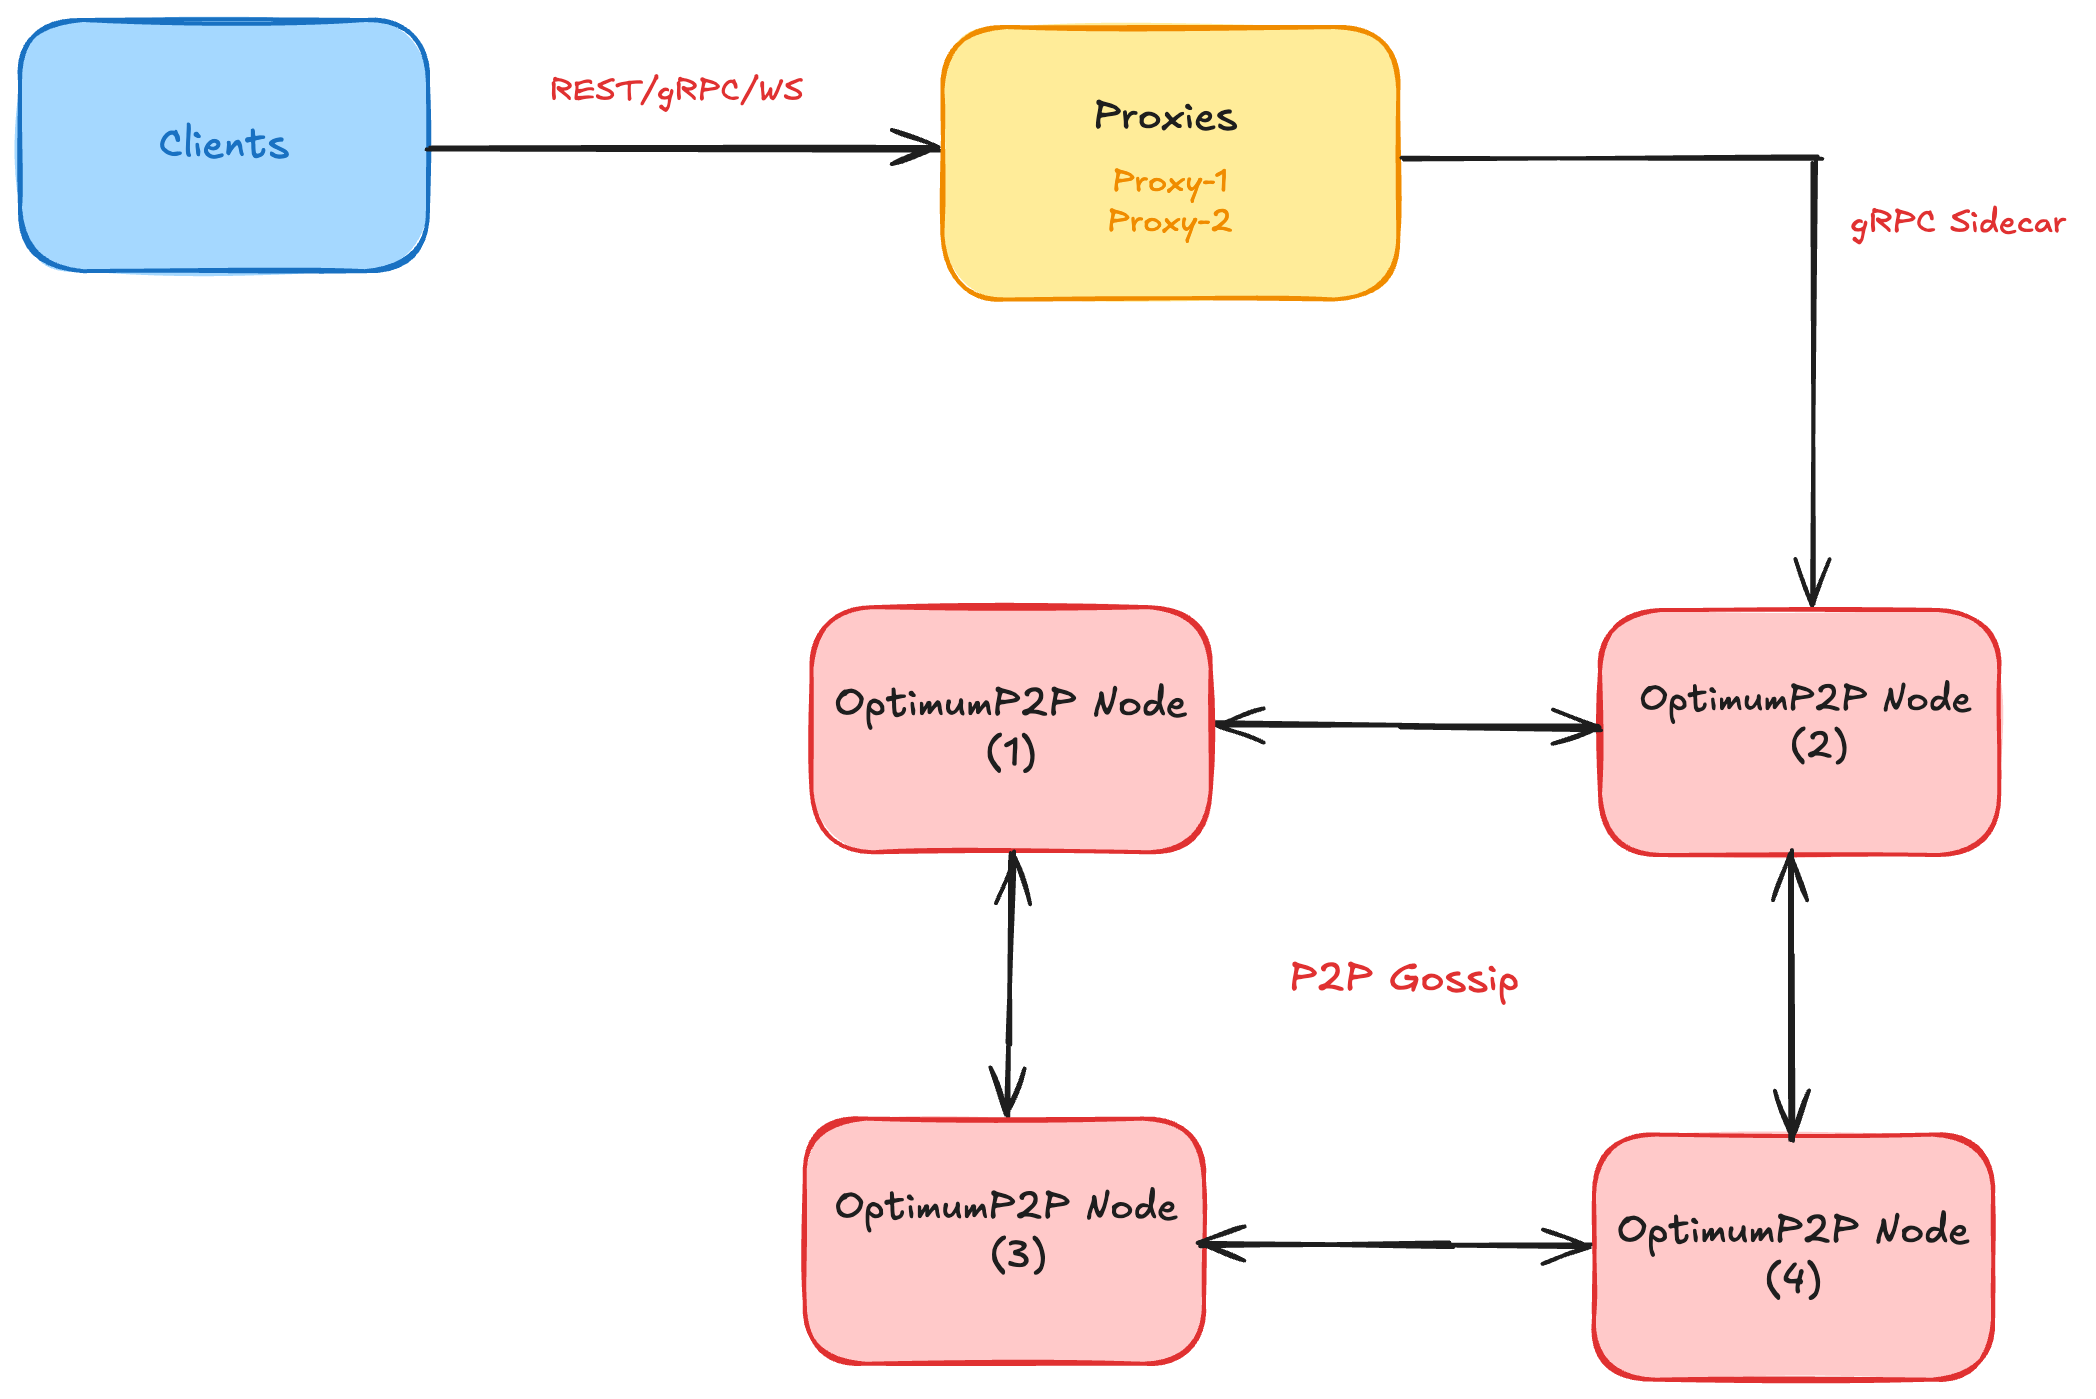
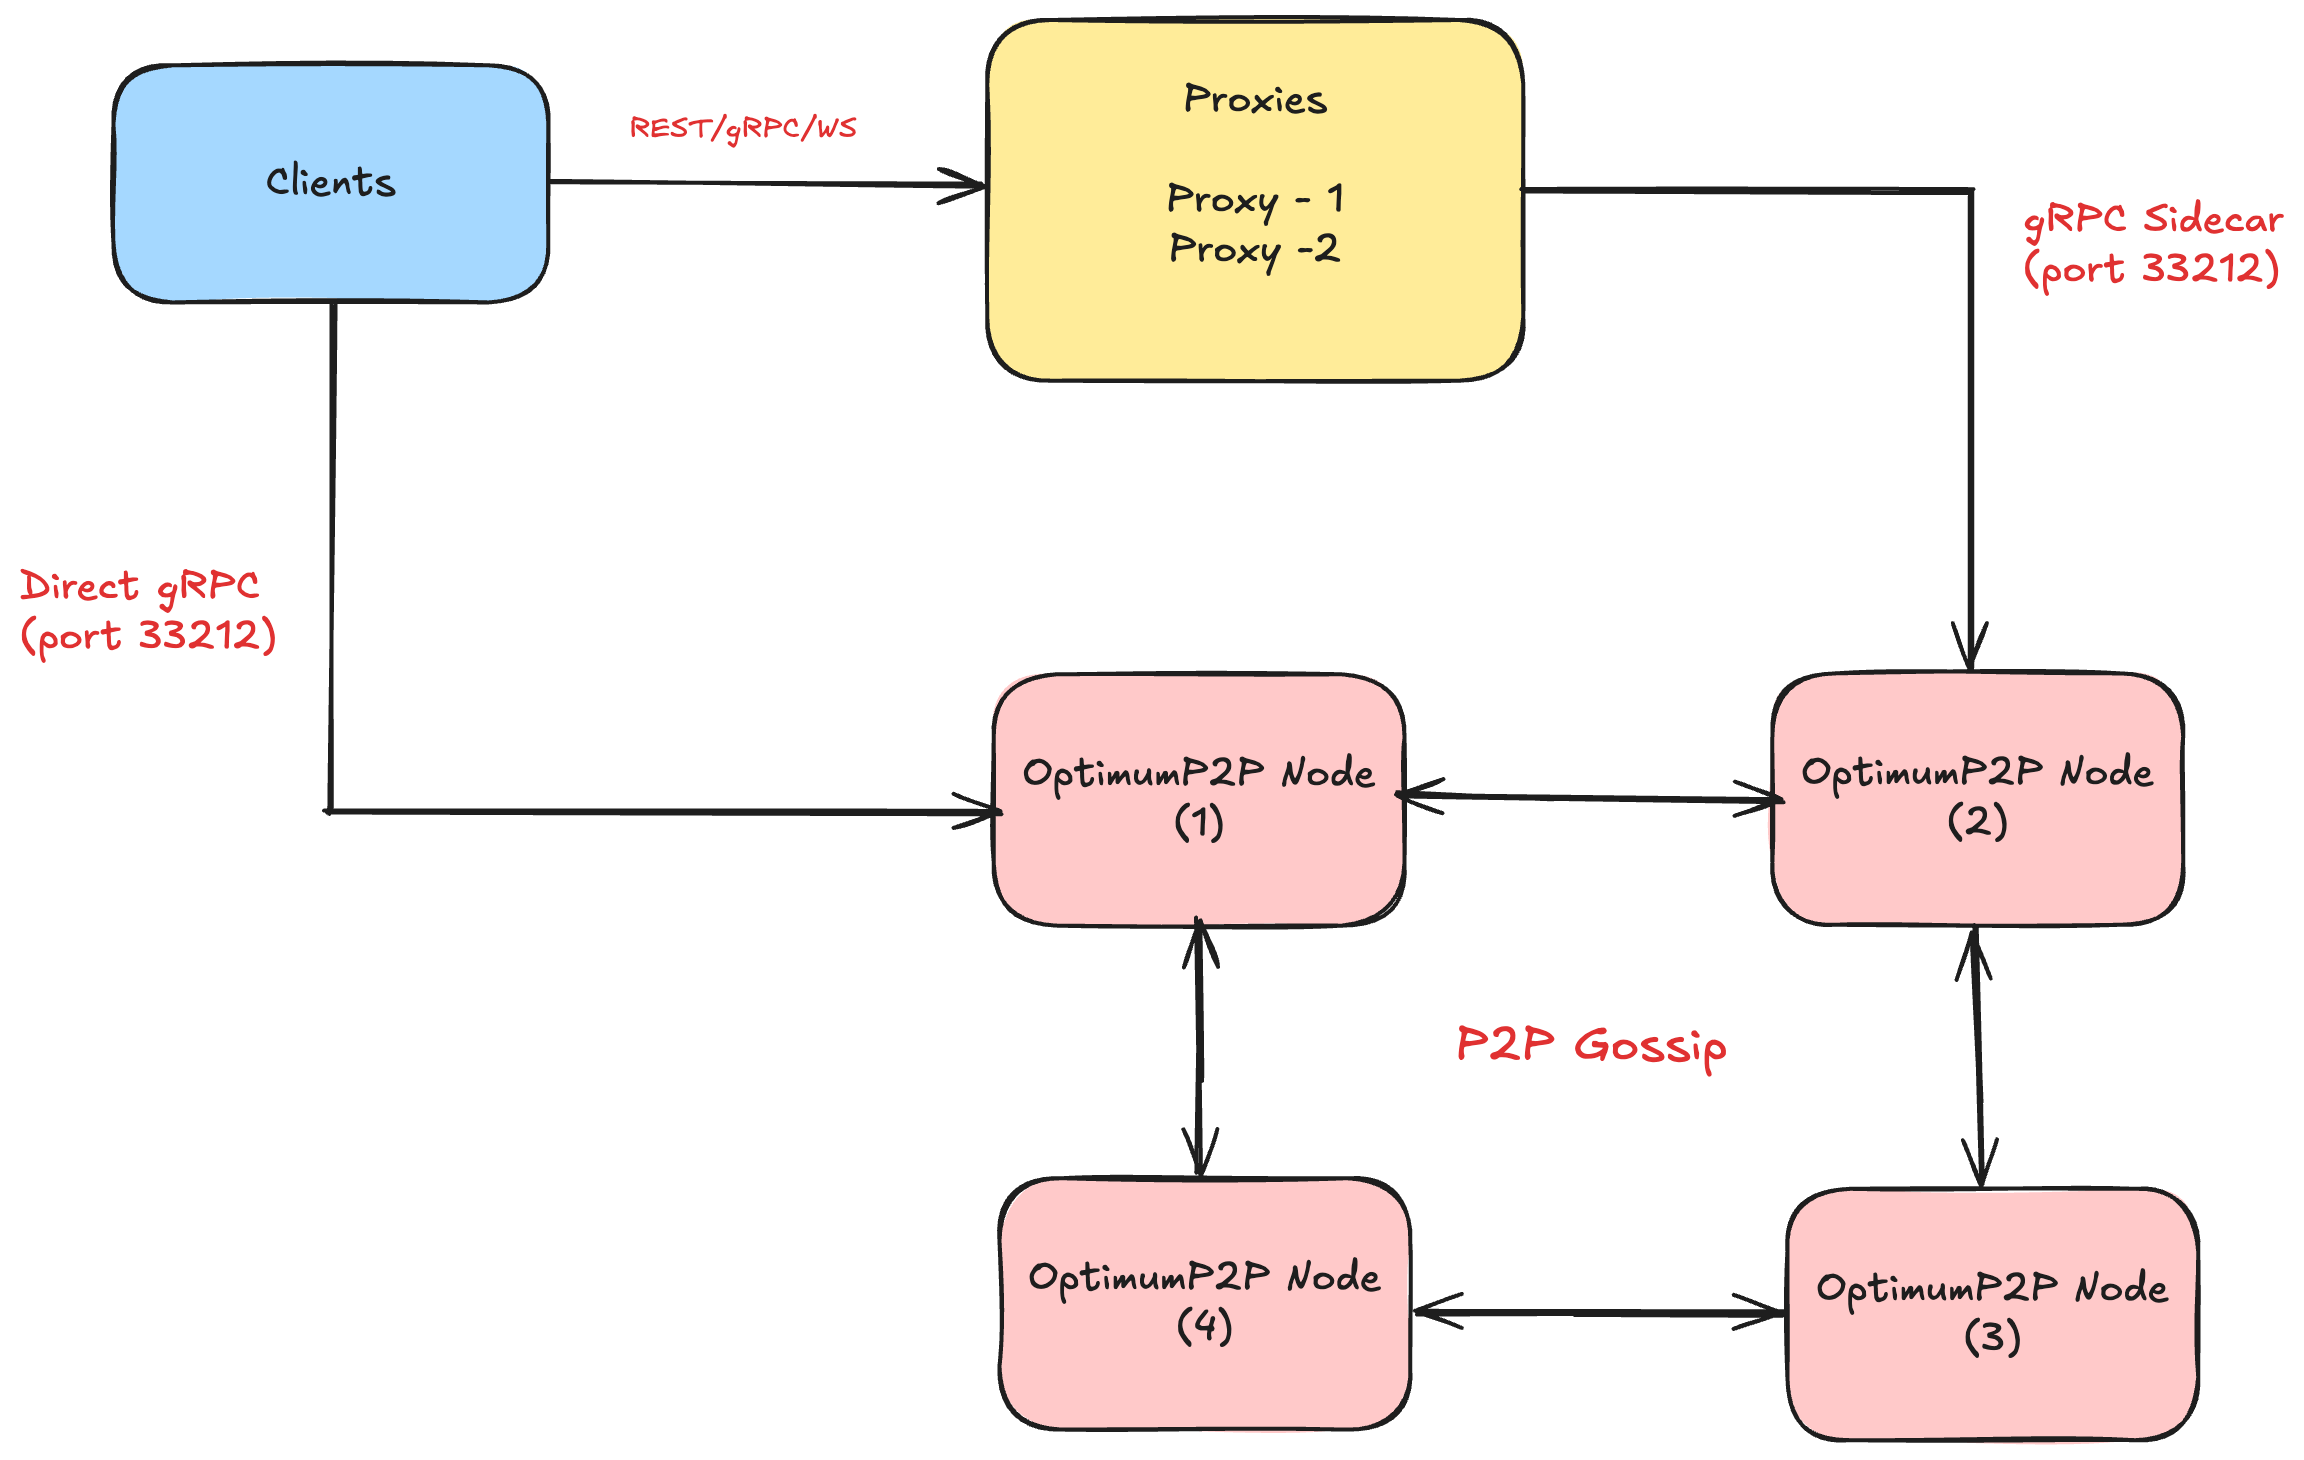
docs: Add external P2P node connectivity examples

diff --git a/docs/guide.md b/docs/guide.md
@@ -198,6 +198,24 @@ You can use this setup to:
 1. **Via Proxy** (recommended): Connect to proxies for managed access with authentication and rate limiting
 2. **Direct P2P**: Connect directly to P2P nodes for low-level integration
 
+### Connecting to Remote Clusters
+
+OptimumP2P supports connecting to remote P2P clusters for distributed testing and production use:
+
+```bash
+# Connect to remote cluster nodes
+./grpc_p2p_client/p2p-client -mode=subscribe -topic=distributed-topic --addr=remote-node-1:33212
+./grpc_p2p_client/p2p-client -mode=publish -topic=distributed-topic --addr=remote-node-2:33212
+
+# Example with testnet cluster
+./grpc_p2p_client/p2p-client -mode=subscribe -topic=testnet-demo --addr=34.124.246.10:33212
+```
+
+**Key Points:**
+- Remote nodes use the standard sidecar port `33212`
+- Ensure you have the correct `CLUSTER_ID` for the target cluster
+- Messages will propagate across the entire distributed mesh network
+
 ---
 
 ## Architecture Overview
@@ -619,11 +637,19 @@ This is useful for:
 
 ##### Subscribe to a Topic
 
+**Local Docker Development:**
 ```sh
 ./grpc_p2p_client/p2p-client -mode=subscribe -topic=mytopic --addr=localhost:33221
 ```
 
 > **Note:** Here, `localhost:33221` is the mapped port for `p2pnode-1` (33221:33212) in docker-compose.
+
+**External/Remote P2P Nodes:**
+```sh
+./grpc_p2p_client/p2p-client -mode=subscribe -topic=mytopic --addr=34.124.246.10:33212
+```
+
+> **Note:** External nodes use the standard sidecar port `33212` directly.
 
 response
 
@@ -636,11 +662,19 @@ Received message: "random2"
 
 ##### Publish to a Topic
 
+**Local Docker Development:**
 ```sh
 ./grpc_p2p_client/p2p-client -mode=publish -topic=mytopic --addr=localhost:33222
 ```
 
 > **Note:** Here, `localhost:33222` is the mapped port for `p2pnode-2` (33222:33212) in docker-compose.
+
+**External/Remote P2P Nodes:**
+```sh
+./grpc_p2p_client/p2p-client -mode=publish -topic=mytopic --addr=35.197.161.77:33212
+```
+
+> **Note:** External nodes use the standard sidecar port `33212` directly.
 
 response
 

diff --git a/readme.md b/readme.md
@@ -248,11 +248,29 @@ The P2P client supports these flags:
 
 #### Port Mapping
 
+**Local Docker Development:**
 The development setup exposes these P2P node ports:
 - `127.0.0.1:33221` → p2pnode-1 (sidecar port 33212)
 - `127.0.0.1:33222` → p2pnode-2 (sidecar port 33212)
 - `127.0.0.1:33223` → p2pnode-3 (sidecar port 33212)
 - `127.0.0.1:33224` → p2pnode-4 (sidecar port 33212)
+
+**External/Remote P2P Nodes:**
+For connecting to external P2P nodes or remote clusters, use the standard sidecar port `33212`:
+
+```bash
+# Connect to external P2P nodes
+./grpc_p2p_client/p2p-client -mode=subscribe -topic=mytopic --addr=node1.example.com:33212
+./grpc_p2p_client/p2p-client -mode=publish -topic=mytopic --addr=node2.example.com:33212
+
+# Example with real testnet nodes
+./grpc_p2p_client/p2p-client -mode=subscribe -topic=demo --addr=34.124.246.10:33212
+./grpc_p2p_client/p2p-client -mode=publish -topic=demo --addr=35.197.161.77:33212
+```
+
+**Port Usage Summary:**
+- **Local Docker**: Use `127.0.0.1:33221-33224` (Docker port forwarding)
+- **External/Remote**: Use `node-ip:33212` (standard sidecar port)
 
 
 ## Developer Tools
